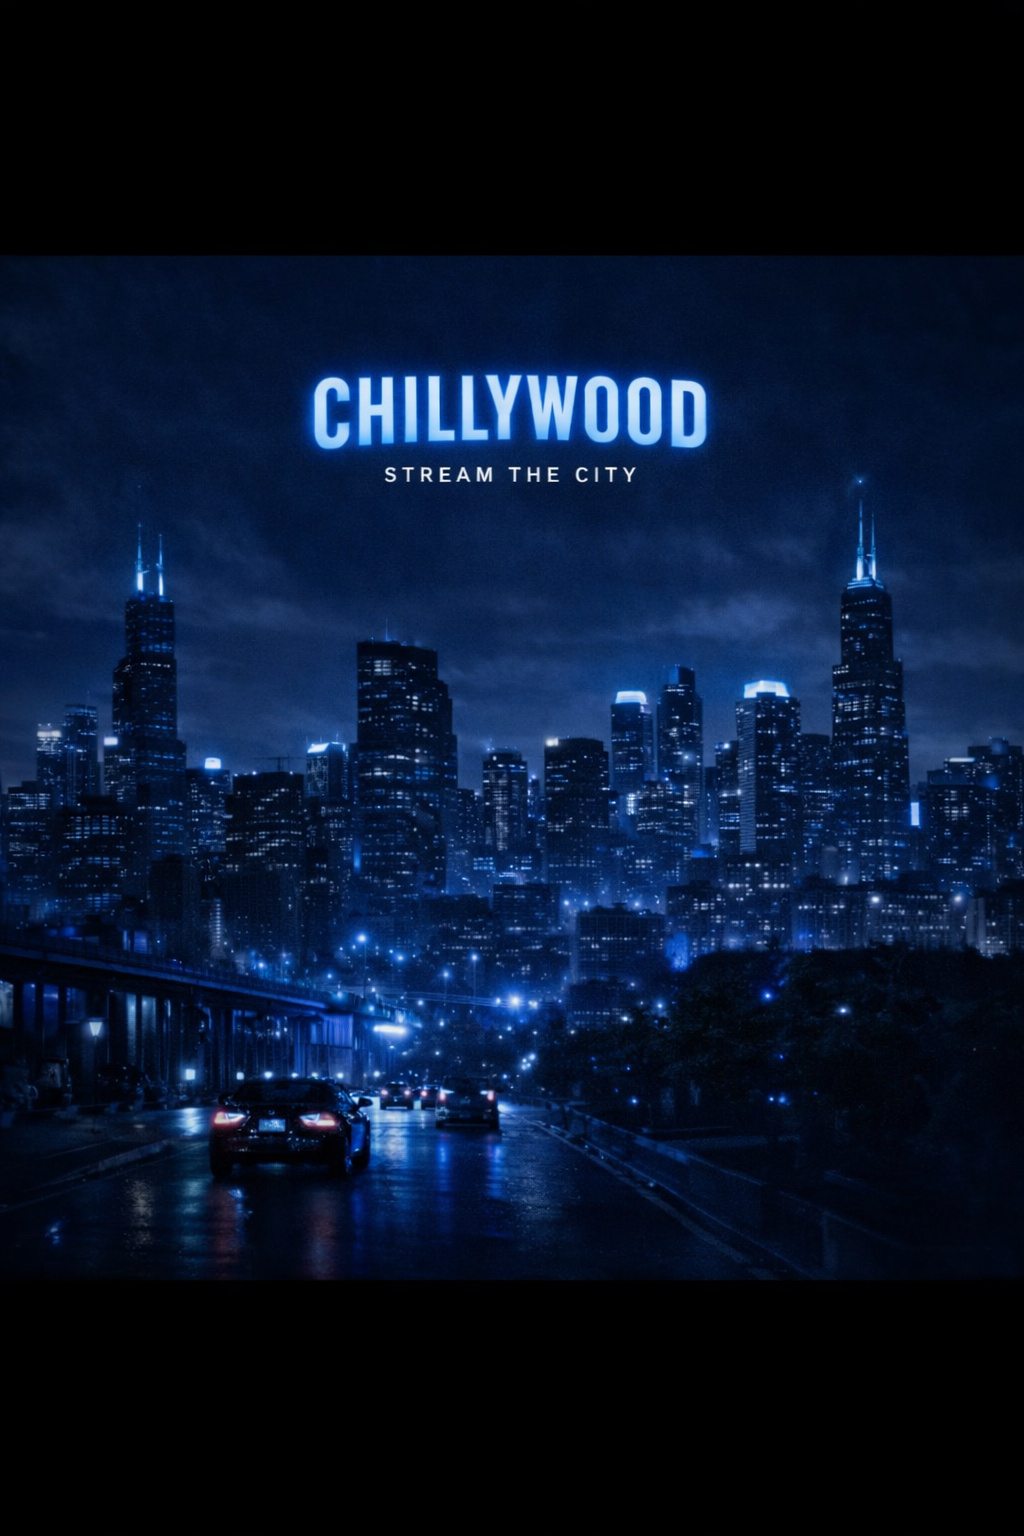
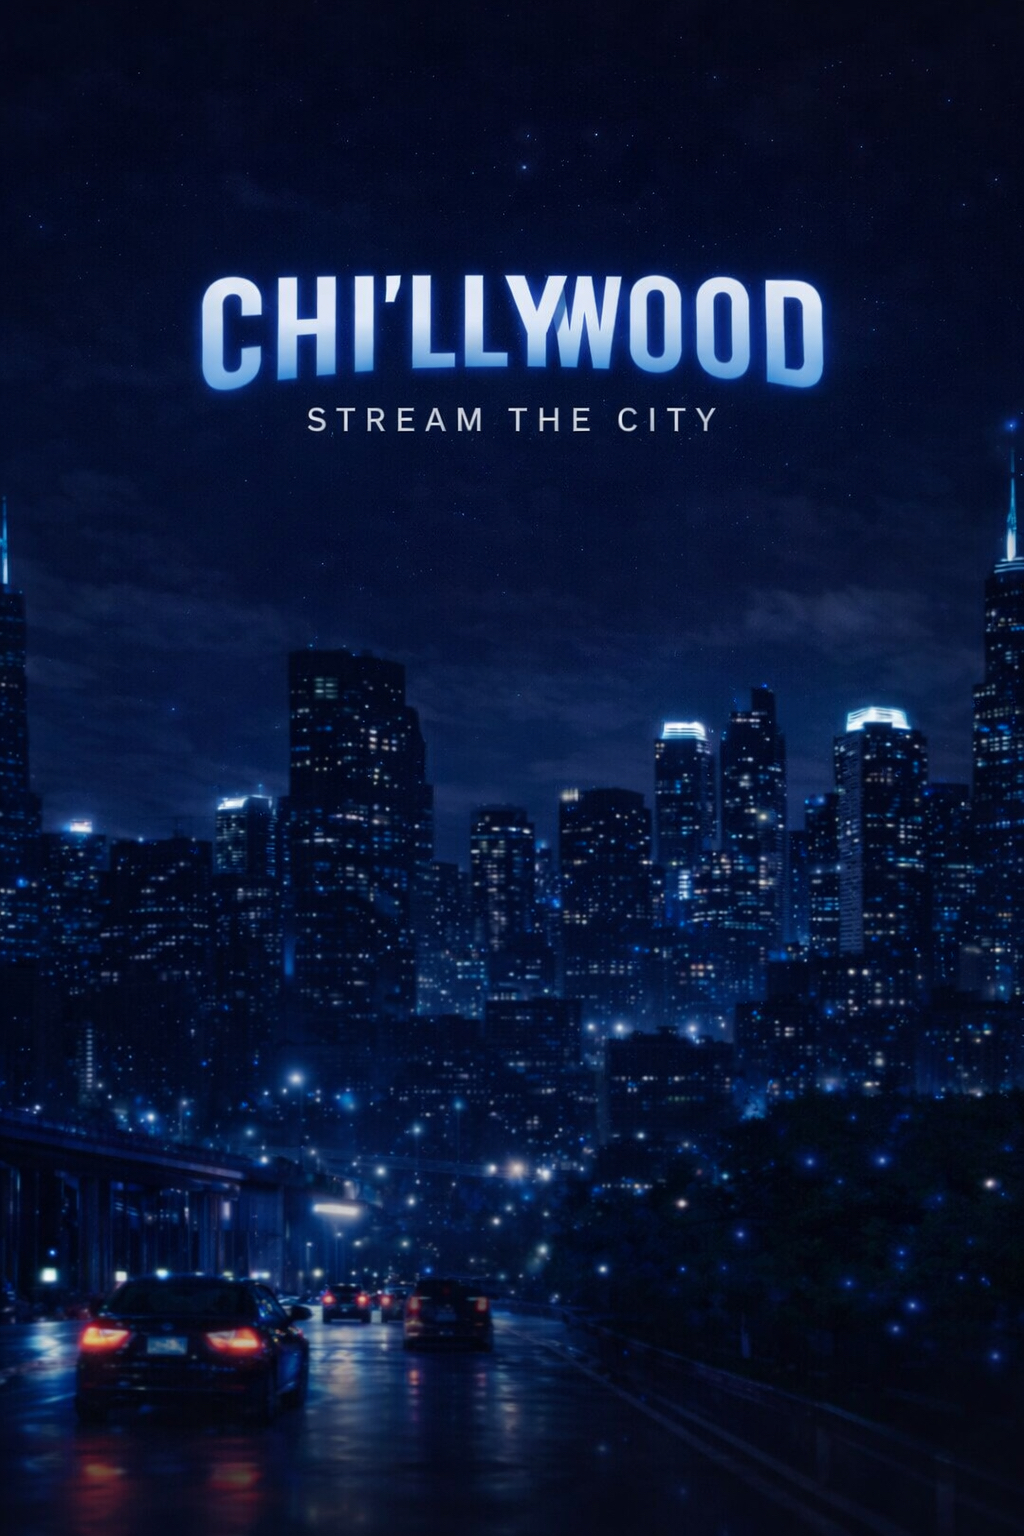
Restore branded background direction

diff --git a/NEXT_TASK.md b/NEXT_TASK.md
@@ -1,7 +1,7 @@
 # NEXT TASK
 
 ## Exact Next Task
-Carry forward the still-valid Stage 4, PostHog, auth/home, Settings/Logout, login-visual, Phase 0 Rachi baseline, the completed Phase 2 moderation/admin minimums, the completed Phase 3 Home/content polish, the completed Phase 4 release hardening, the closed Phase 5 final integration proof, the pushed room campaign through Chapter 3, and the now-completed Chapter 4 Phases 1 and 2 exactly as already proved. Do not reopen runtime proof, do not reopen earlier room chapters, and do not reopen earlier phases unless a later blocker proves the need. `ROOM_BLUEPRINT.md` remains implementation law for room boundaries, and the monetization foundation plus access model remain owned centrally by `app/_layout.tsx`, `_lib/revenuecat.ts`, `_lib/monetization.ts`, and the shared route-safe gate helpers now used by the waiting-room/title/communication owners. The next exact lane is Chapter 4, Phase 3: paywalls / offers / purchase UX.
+Carry forward the still-valid Stage 4, PostHog, auth/home, Settings/Logout, login-visual, Phase 0 Rachi baseline, the completed Phase 2 moderation/admin minimums, the completed Phase 3 Home/content polish, the completed Phase 4 release hardening, the closed Phase 5 final integration proof, the pushed room campaign through Chapter 3, the now-completed Chapter 4 Phases 1 and 2, and the new branded-background restoration truth exactly as already proved. Do not reopen runtime proof, do not reopen earlier room chapters, and do not reopen earlier phases unless a later blocker proves the need. `ROOM_BLUEPRINT.md` remains implementation law for room boundaries, and the monetization foundation plus access model remain owned centrally by `app/_layout.tsx`, `_lib/revenuecat.ts`, `_lib/monetization.ts`, and the shared route-safe gate helpers now used by the waiting-room/title/communication owners. `assets/images/chillywood-branded-background.png` is now the exact source-of-truth branded background asset, while `assets/images/chicago-skyline.jpg` remains the restored shared runtime owner for login, support, admin, channel settings, and skyline-fallback poster surfaces. Room-owned backgrounds in Live / Party / Player / Profile / Chat remain intentionally separate. The next exact lane is still Chapter 4, Phase 3: paywalls / offers / purchase UX.
 
 ## Current Plan
 1. Preserve the carried-forward proved baseline without reopening unrelated prior work
@@ -9,15 +9,17 @@ Carry forward the still-valid Stage 4, PostHog, auth/home, Settings/Logout, logi
 3. Preserve `ROOM_BLUEPRINT.md` as implementation law for room purpose, controls, permissions, AI placement, anti-patterns, and success tests
 4. Carry forward Chapter 4 Phase 1 as complete: RevenueCat foundation, centralized SDK ownership, auth-linked customer identity mapping, monetization catalog, snapshot model, and service-level purchase / restore / manage-subscription entry points now exist without scattered raw SDK calls
 5. Carry forward Chapter 4 Phase 2 as complete: centralized entitlement checks, route-safe gating, target-aware access-sheet copy for premium subscription / title access / premium live / premium watch-party access, and the RevenueCat identity/logging fixes are now proved on Android dev client
-6. Implement Chapter 4 Phase 3 next: visible paywalls, offers, restore/manage entry, and honest purchase UX states on top of the now-proved central access model
-7. Keep iOS out of runtime proof for this chapter; prove on Android dev client only
-8. Keep final combined monetization proof as the closing lane after all Chapter 4 phases are complete
+6. Carry forward the restored branded background truth: the uploaded nighttime city image now lives in-repo as `assets/images/chillywood-branded-background.png`, while the shared branded runtime owner path remains `assets/images/chicago-skyline.jpg` for branded shells and fallback poster usage, and room/content-specific surfaces keep their own owners
+7. Implement Chapter 4 Phase 3 next: visible paywalls, offers, restore/manage entry, and honest purchase UX states on top of the now-proved central access model
+8. Keep iOS out of runtime proof for this chapter; prove on Android dev client only
+9. Keep final combined monetization proof as the closing lane after all Chapter 4 phases are complete
 
 ## Exact Next Batch
 - preserve the proved current-build baseline exactly as carried-forward truth: logged-out first open lands on `/login`, valid login returns to Home, Home/title/player routes stay correct, Settings/Logout stay visible and working, the restored Chi'llywood login presentation remains intact, and the Phase 5 Android-dev-client proof remains closed
 - preserve the locked room truth exactly as carried forward: `Live Watch-Party` is the Home/live flow, `Watch-Party Live` is the title/player flow, Party Room must not hand off to Live Stage, Standalone Player stays solo-first, Chi'lly Chat stays canonical, Profile/Channel stays canonical, and Rachi stays official platform-owned presence
 - preserve the new Chapter 4 Phase 1 truth: RevenueCat is configured once at startup on Android debug/dev builds only, the provided Test Store key is not wired into release config, the signed-in auth user is mapped into the central monetization snapshot, and monetization catalog / purchase / restore / manage-subscription entry points remain centralized
 - preserve the new Chapter 4 Phase 2 truth: entitlement reads, reusable `can access / needs upgrade / needs purchase` helpers, route-safe gating for premium subscription / paid title access / premium live / premium Watch-Party access, and the identity-safe RevenueCat snapshot path are now centralized and proved on Android dev client
+- preserve the new branded-background truth: the uploaded nighttime city image now lives in-repo as the source-of-truth branded asset, the shared skyline runtime owner path stays aligned with it for branded shells and fallback poster surfaces, and Live / Party / Player / Profile / Chat keep their existing room-owned background systems
 - implement Phase 3 in the smallest safe owner set: reusable paywall / offer surfaces, restore/manage entry points, honest pending / failure / retry states, and owner-safe fallback UI when live store offerings are incomplete
 - keep Phase 3 honest: no fake purchase success, no hardcoded unlocked premium, no fake live prices, and no paywall plastering outside intentional premium surfaces
 - keep the next checkpoint task-pure: update `CURRENT_STATE.md` first and `NEXT_TASK.md` second after the Phase 3 proof pass, stage only the Phase 3 file set, and make one local commit before any later push recommendation

diff --git a/CURRENT_STATE.md b/CURRENT_STATE.md
@@ -1,6 +1,8 @@
 # CURRENT STATE
 
 ## Current Checkpoint
+A narrow background restoration / background unification pass on April 6, 2026 now updates the shared Chi'llywood branded-background truth without reopening the active Chapter 4 monetization lane. The exact next implementation lane remains Chapter 4, Phase 3: paywalls / offers / purchase UX. `assets/images/chillywood-branded-background.png` now preserves the exact uploaded nighttime city image from this Codex thread as the repo's source-of-truth branded background asset, while `assets/images/chicago-skyline.jpg` has been restored from that same image direction and remains the shared runtime background owner for the active login, support, admin, channel-settings, and skyline-fallback poster surfaces. This pass intentionally leaves room-owned backgrounds alone: `app/watch-party/index.tsx`, `app/watch-party/[partyId].tsx`, `app/watch-party/live-stage/[partyId].tsx`, `app/player/[id].tsx`, `app/profile/[userId].tsx`, and the canonical Chi'lly Chat routes still own their room/content-specific background treatments, so the restored branded skyline does not flatten Live, Party, Player, Profile, or Chat into one generic shell.
+
 A new Chapter 4 monetization / entitlements Phase 2 entitlement-plumbing pass on April 6, 2026 now intentionally supersedes the previously scheduled final combined room-campaign proof as the active implementation lane. The room campaign through Chapter 3 remains carried-forward and pushed on `main`, and the new exact checkpoint is now Chapter 4, Phases 1 and 2 complete with Chapter 4, Phase 3 next. `app/_layout.tsx` still owns the single app-start monetization bootstrap, `_lib/revenuecat.ts` still owns raw RevenueCat SDK configuration / customer identity / offerings / purchase / restore / manage-subscription wiring, and `_lib/monetization.ts` now additionally owns the identity-safe snapshot refresh, centralized entitlement target resolution, target-aware access-sheet presentation, and purchase-block handling used by the active route owners. `_lib/roomRules.ts`, `_lib/watchParty.ts`, `app/watch-party/index.tsx`, `app/watch-party/[partyId].tsx`, `app/communication/index.tsx`, `app/title/[id].tsx`, and `components/monetization/access-sheet.tsx` now all consume the same centralized monetization gate model instead of fake local unlock helpers. `npm run typecheck` passed, and the physical Android dev-client runtime proof on device `R3CXA0DS5JV` / `SM-S928U1` proved three real entitlement-gated viewer paths: live room code `LTCUZX` opened `LIVE ACCESS` / `Unlock Live Access`, party-pass room code `HXJUAS` opened `WATCH-PARTY ACCESS` / `Unlock This Room`, and premium title-room code `5Y4YPM` opened `TITLE ACCESS` / `Unlock This Title`, while analytics logged real `monetization_gate_shown` events from the waiting-room owner. This pass also fixed the RevenueCat `subscribers/null` identity bug and replaced the SDK's default dev log handling so the Android Test Store `canMakePayments requires the Google Play Store` warning no longer escalates into a full-screen React Native LogBox during proof. Direct title-detail runtime proof still lacks a real premium title row on the current backend, but the canonical title-detail owner now routes through the same central title-access target and Phase 3 visible paywall / offer UX is the next exact lane.
 
 Stage 4 remains completed/proved on the current build. Current JS via Expo Go / Metro proved Home, Player, Profile, Chi'lly Chat, Live Waiting Room, Party Waiting Room, Live Room, Party Room, and Live Stage behavior as described below.

diff --git a/ARCHITECTURE_RULES.md b/ARCHITECTURE_RULES.md
@@ -92,6 +92,12 @@ These labels are locked and are not runtime-branding experiments.
 
 If duplicate files or shared constants exist, prove which active surface owns the label before editing.
 
+## Branded Background Rule
+- `assets/images/chillywood-branded-background.png` is the exact source-of-truth Chi'llywood branded-background asset for the current nighttime city direction
+- `assets/images/chicago-skyline.jpg` remains the shared runtime owner path that active branded shells and skyline-style fallback posters currently import, and it should stay visually aligned with the source-of-truth asset
+- active branded shells such as login, support, admin, and channel settings should converge on that shared runtime asset path instead of drifting to unrelated imagery
+- room/content owners such as Party Room, Live Room / Live Stage, Player, Profile / Channel, Home rails, Explore, and Chi'lly Chat should keep their own room- or content-specific background treatments unless those owners are intentionally updated together
+
 ## Live Stage Toggle Rule
 `Live First / Live Watch-Party` is in-screen Live Room state only.
 
